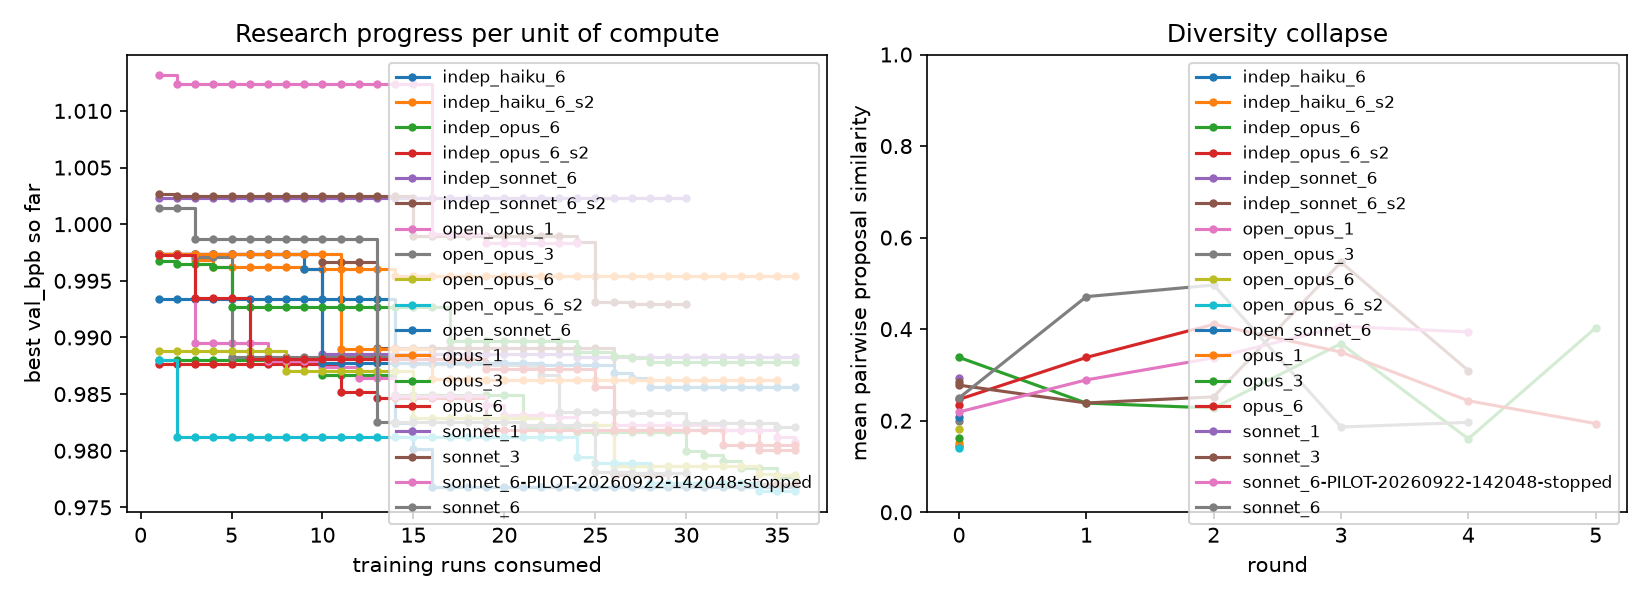
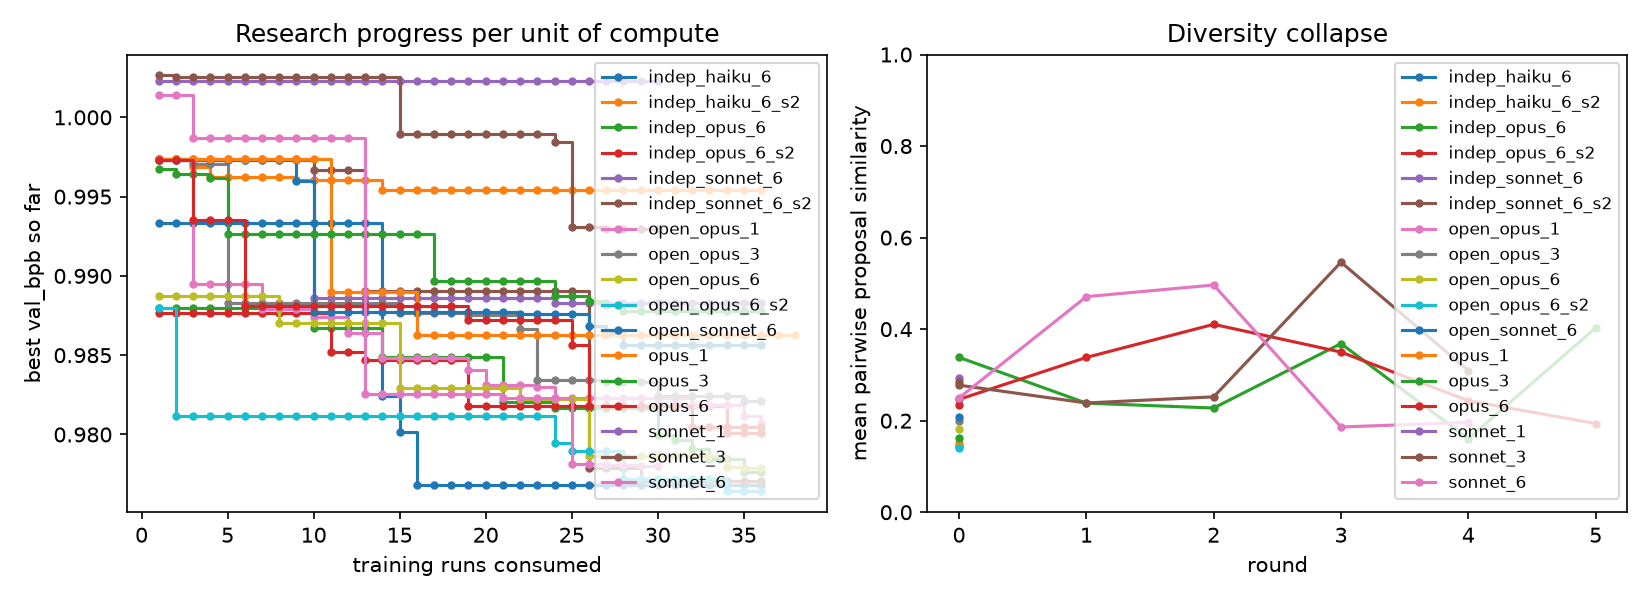
opus_1: winner.diff restored from its original commit; analysis refresh with all 17 valid cells

diff --git a/analysis_out/summary.md b/analysis_out/summary.md
@@ -1,4 +1,4 @@
-# Results so far (2026-09-22 23:51)
+# Results so far (2026-09-22 23:56)
 
 - indep_haiku_6: OK — all invariants hold for results/indep_haiku_6
 - indep_haiku_6_s2: OK — all invariants hold for results/indep_haiku_6_s2
@@ -11,13 +11,12 @@
 - open_opus_6: OK — all invariants hold for results/open_opus_6
 - open_opus_6_s2:   note: open protocol: a5 claimed 7 runs, share was 6: one slot moved between agents when the budget was rebuilt after a resume; cell total unchanged
 - open_sonnet_6: OK — all invariants hold for results/open_sonnet_6
-- opus_1: OK — all invariants hold for results/opus_1
-- opus_3: OK — all invariants hold for results/opus_3
-- opus_6: OK — all invariants hold for results/opus_6
+- opus_1:   note: phantom candidate: round 5 a0/v2 scored 0.986277 with no GPU run behind it (excluded from nothing: it never won)
+- opus_3:   note: phantom candidate: round 1 a1/v1 scored 0.992664 with no GPU run behind it (excluded from nothing: it never won)
+- opus_6:   note: phantom candidate: round 5 a2/v0 scored 0.981817 with no GPU run behind it (excluded from nothing: it never won)
 - sonnet_1: OK — all invariants hold for results/sonnet_1
 - sonnet_3: OK — all invariants hold for results/sonnet_3
-- sonnet_6-PILOT-20260922-142048-stopped:   - rounds started but not ended: [4]
-- sonnet_6: OK — all invariants hold for results/sonnet_6
+- sonnet_6:   note: phantom candidate: round 1 a4/v0 scored 0.998671 with no GPU run behind it (excluded from nothing: it never won)
 
 ```
 cell           agents  BoN   baseline      final      gain  runs  rounds  crash%  simil.  agent $
@@ -33,15 +32,12 @@ open_opus_3         3    1   0.997359   0.982130  0.015229    36       1     2.8
 open_opus_6         6    1   0.997333   0.977896  0.019437    36       1     0.0   0.183    35.93
 open_opus_6_s2      6    1   0.997359   0.976408  0.020951    36       1     0.0   0.139    66.10
 open_sonnet_6       6    1   0.997333   0.985651  0.011682    36       1     8.3   0.207  1223.50
-opus_1              1    5   0.997359   0.986277  0.011082    33       7     2.9   0.000    62.20
+opus_1              1    3   0.997359   0.986277  0.011082    36       8     2.6   0.000    69.29
 opus_3              3    2   0.997359   0.987792  0.009567    34       6     5.6   0.289   235.32
 opus_6              6    1   0.997333   0.980496  0.016837    34       6     0.0   0.297   407.50
 sonnet_1            1    5   1.014027   1.002279  0.011748    32       6     3.3   0.000    16.07
 sonnet_3            3    2   1.014027   0.992950  0.021077    32       5     6.7   0.325    28.86
-sonnet_6-PILOT-20260922-142048-stopped      6    1   1.014027   0.000000  0.000000    24       0    25.0   0.329     0.00
 sonnet_6            6    1   1.014027   0.978041  0.035986    33       5     0.0   0.320    61.22
-
-!! no final metric for: sonnet_6-PILOT-20260922-142048-stopped — run analysis.verify
 ```
 
 ## Best val_bpb reached by run n (equal-compute comparison)
@@ -59,10 +55,9 @@ sonnet_6            6    1   1.014027   0.978041  0.035986    33       5     0.0
 | open_opus_6 | 36 | 0.978654 | 0.977973 | 0.977896 | 0.977896 |
 | open_opus_6_s2 | 36 | 0.977171 | 0.976408 | 0.976408 | 0.976408 |
 | open_sonnet_6 | 36 | 0.985651 | 0.985651 | 0.985651 | 0.985651 |
-| opus_1 | 33 | 0.986277 | 0.986277 | 0.986277 | 0.986277 |
+| opus_1 | 36 | 0.986277 | 0.986277 | 0.986277 | 0.986277 |
 | opus_3 | 34 | 0.987792 | 0.987792 | 0.987792 | 0.987792 |
 | opus_6 | 34 | 0.981817 | 0.980496 | 0.980496 | 0.980496 |
 | sonnet_1 | 32 | 1.002279 | 1.002279 | 1.002279 | 1.002279 |
 | sonnet_3 | 32 | 0.992950 | 0.992950 | 0.992950 | 0.99295 |
-| sonnet_6-PILOT-20260922-142048-stopped | None | 0.998353 | 0.998353 | 0.998353 | None |
 | sonnet_6 | 33 | 0.978041 | 0.978041 | 0.978041 | 0.978041 |
